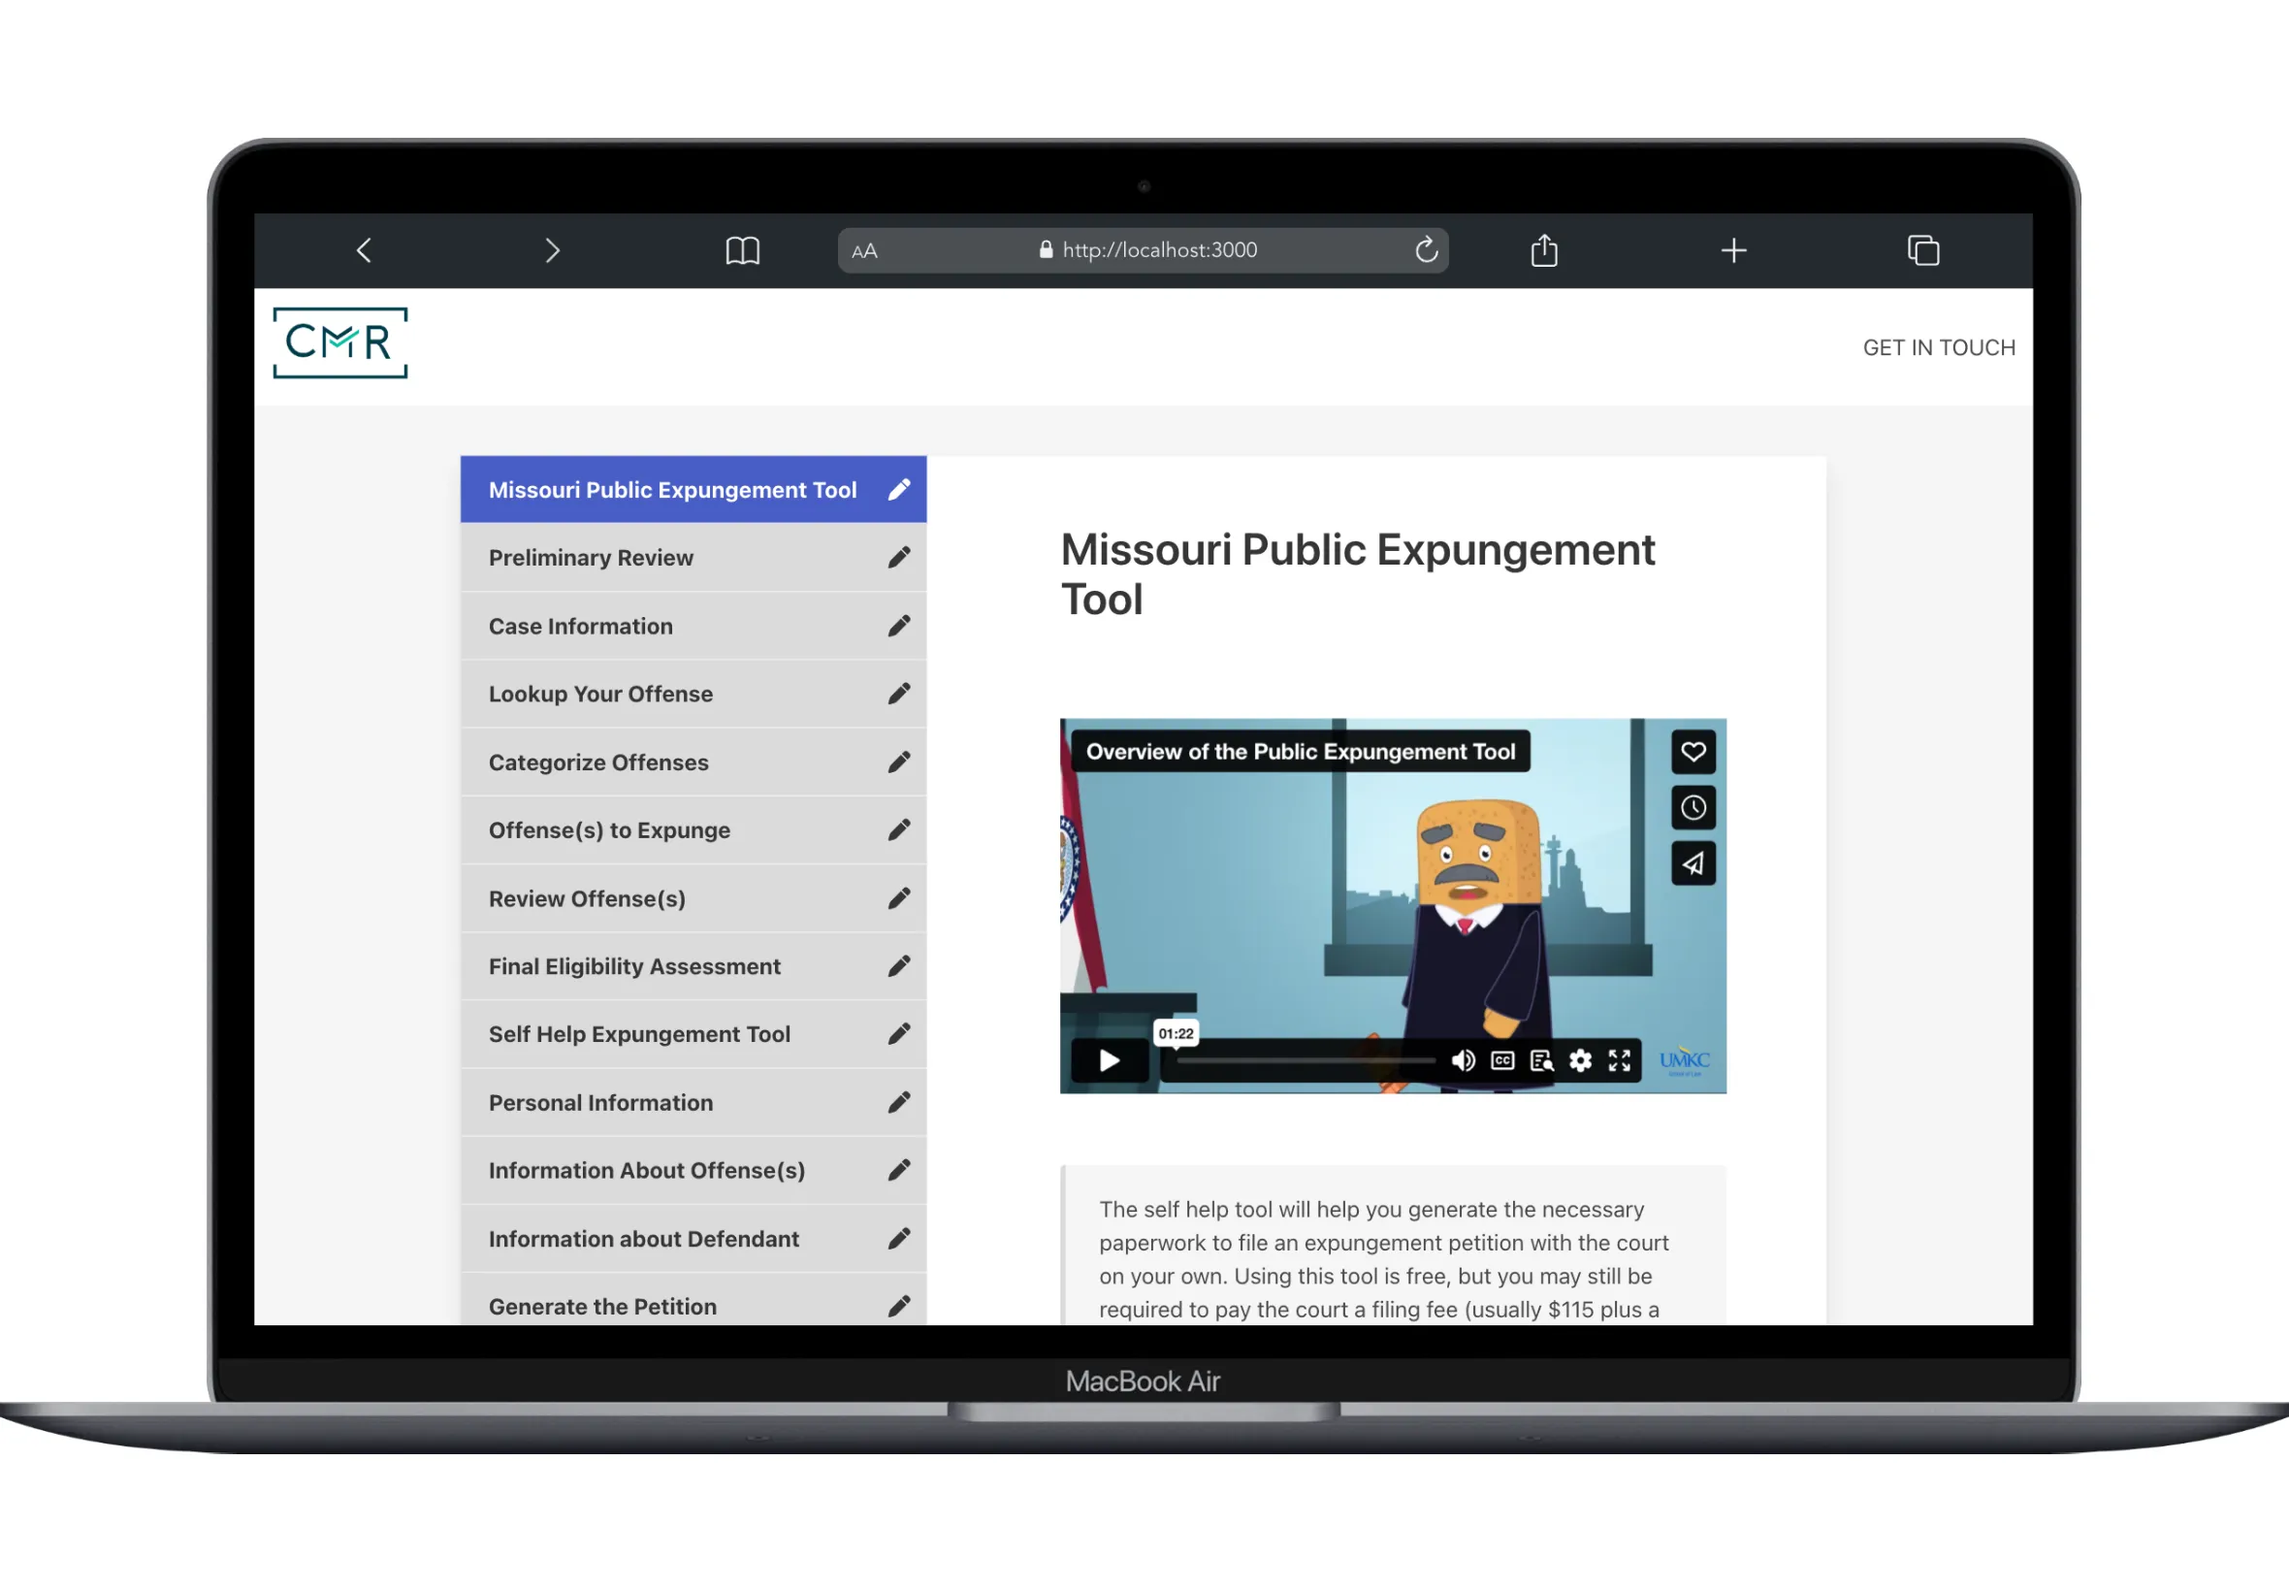
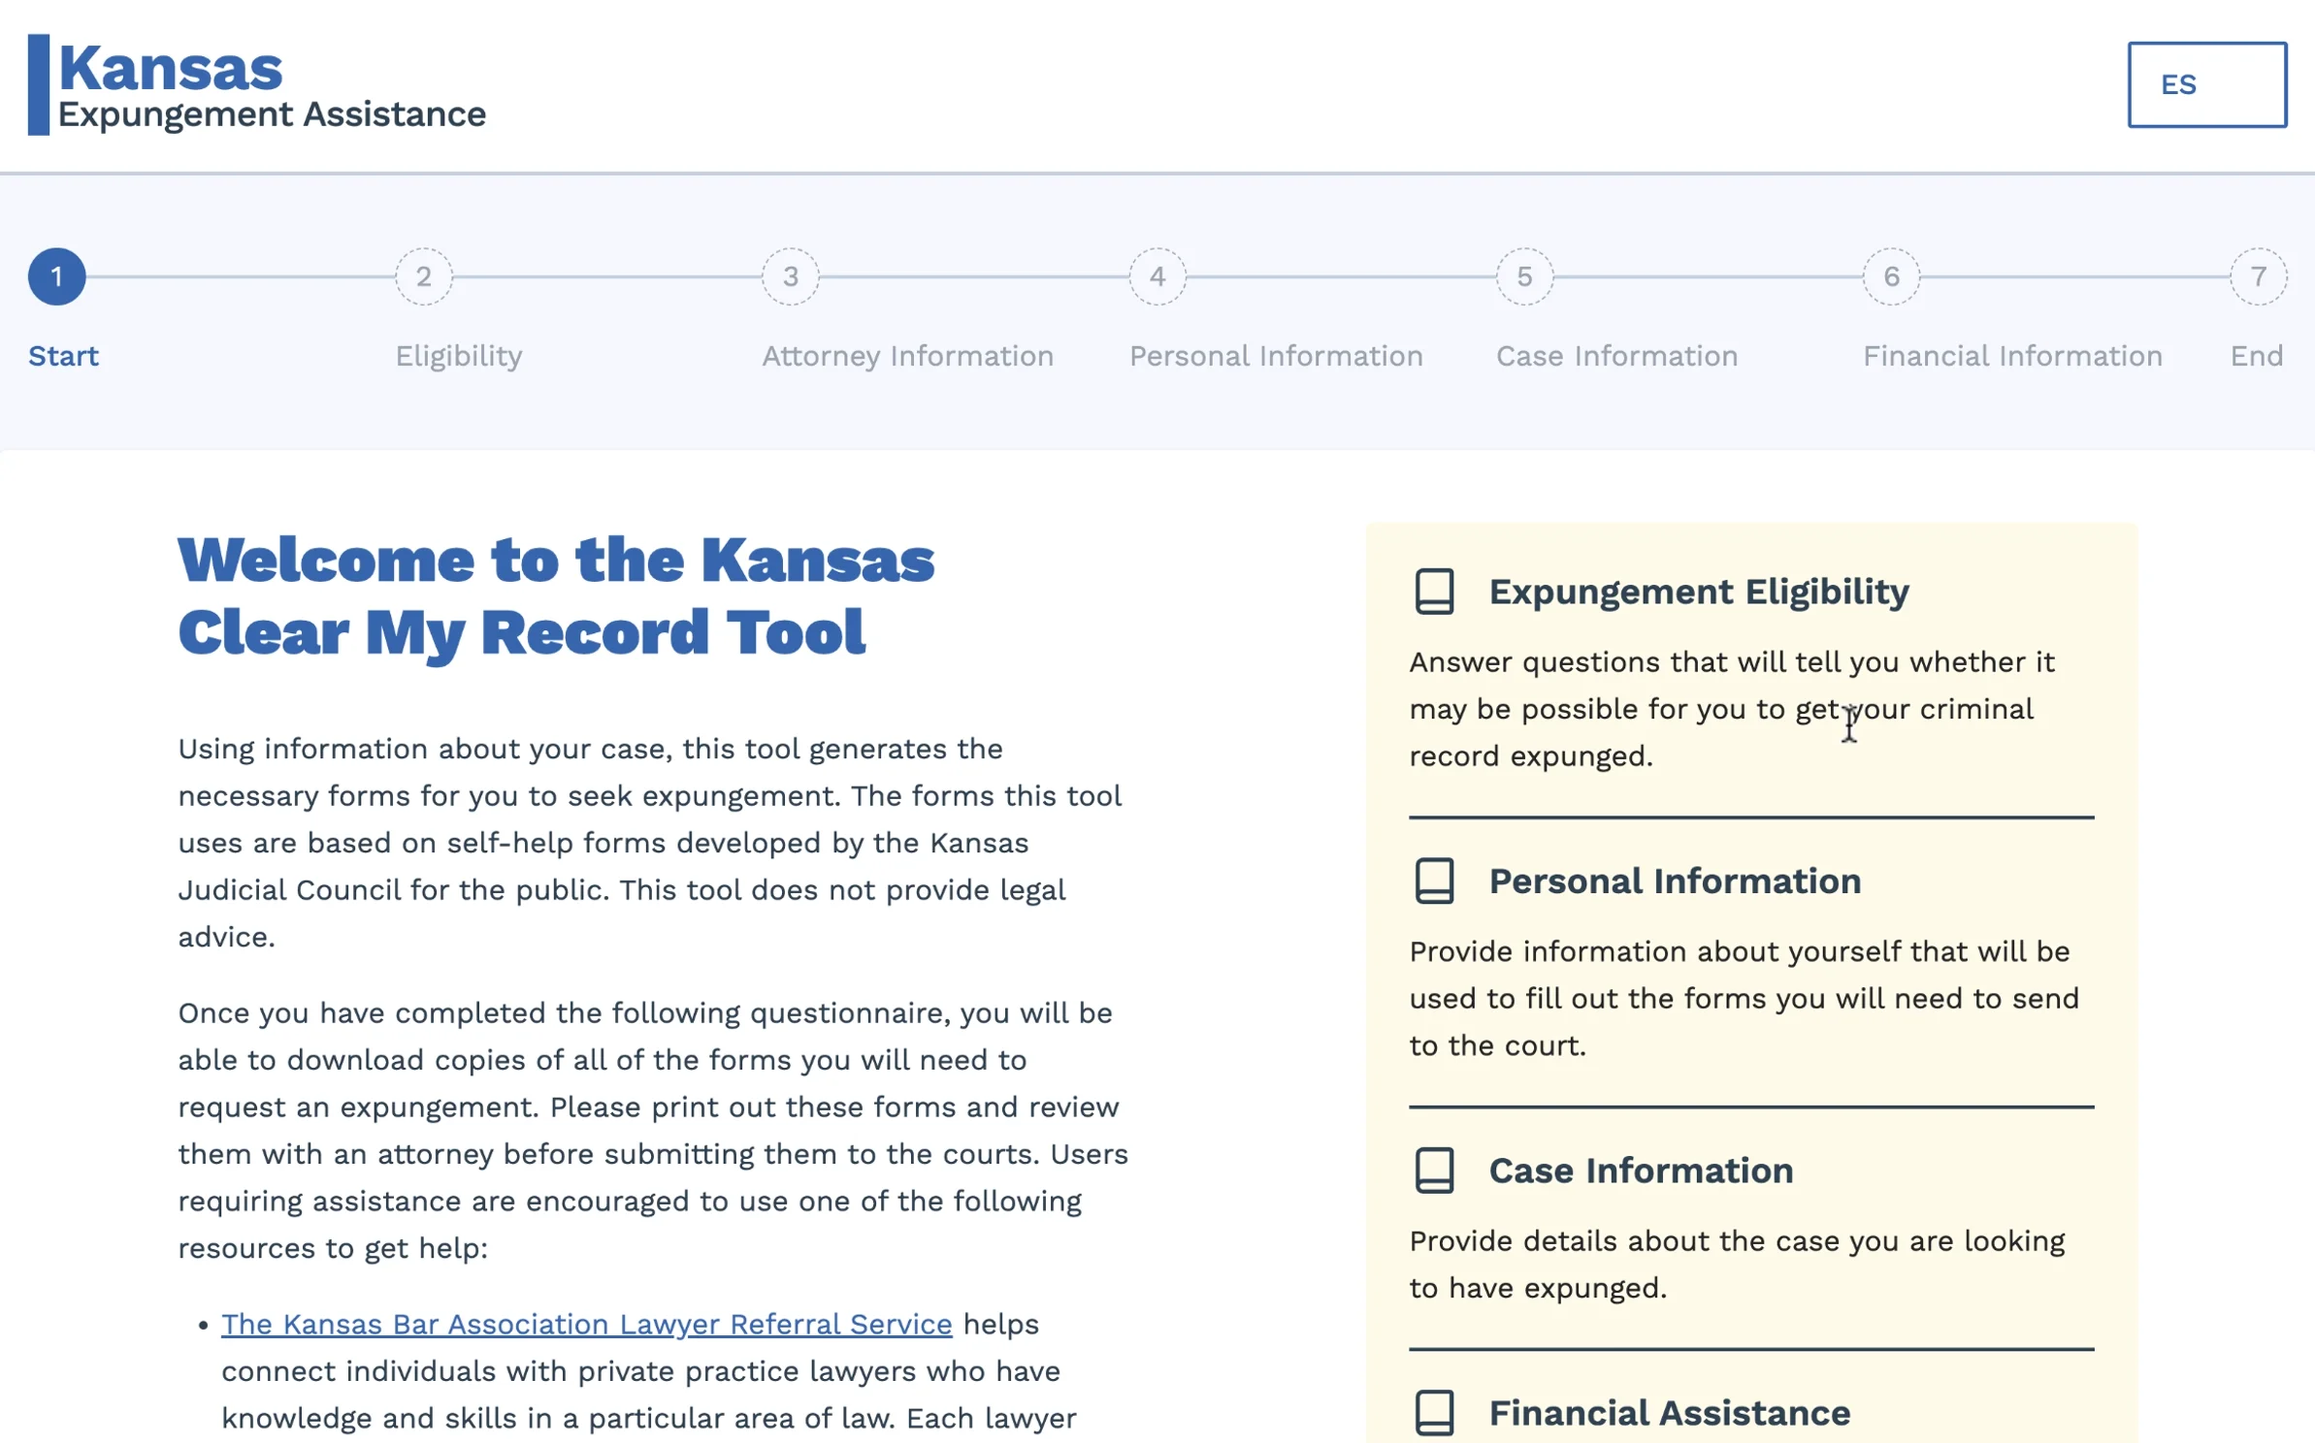
new changes

diff --git a/resumes/fr/section4_skills.tex b/resumes/fr/section4_skills.tex
@@ -7,7 +7,7 @@
     \keywordsentry{Bases SQL / NoSQL}{PostgreSQL, MySQL, MongoDB, Redis, Firebase, Prisma, SQLAlchemy, Sequelize}
     \keywordsentry{Qualité \& Sécurité}{Revue de code, Refactoring, Optimisation des performances, OAuth, JWT, NextAuth, WCAG}
     \keywordsentry{Architecture}{Monolith, Microservices, Composants Réutilisables, Applications évolutives, intégration d'API}
-    \keywordsentry{Data \& CMS}{Databricks, Databricks Apps, Directus, Payload CMS, Strapi}
+    \keywordsentry{Data \& CMS}{Databricks, Databricks Apps, Streamlit, Excel, Directus, Payload CMS, Strapi}
     \keywordsentry{DevOps}{Docker, Git, GitLab CI/CD, Linux, Nginx, Bash PM2}
     \keywordsentry{Méthodes \& Outils}{Agile, Scrum, SAFe, GitFlow, Jira, Figma, Postman, Insomnia}
     \emptySeparator

diff --git a/resumes/fr/section2_experience.tex b/resumes/fr/section2_experience.tex
@@ -37,7 +37,7 @@
                 \item Participation aux déploiements et tests en environnements internes.
                 \item Environnement 100\% agile (Scrum / SAFe).
             \end{itemize}}
-            {React.js, Next.js, Vite.js, React Admin, React Hook Form, Zustand, MUI, TailwindCSS, TypeScript, Python, FastAPI, Databricks, Redis, MongoDB, Git, CI/CD}
+            {React.js, Next.js, Vite.js, React Admin, React Hook Form, Zustand, MUI, TailwindCSS, TypeScript, Python, FastAPI, Streamlit, Databricks, Redis, MongoDB, Git, CI/CD}
     \emptySeparator
      \experience
         {Jan 2025}{Développeur Full Stack}{Atos}{Rabat, Maroc (Freelance)}
